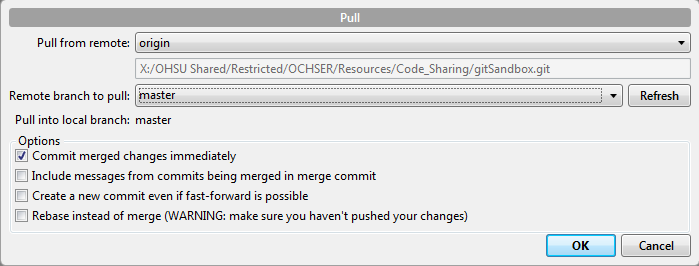
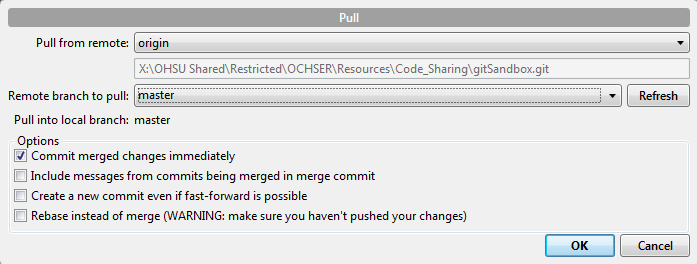
Change "/" to "\" to be consistent with Windows

diff --git a/README.md b/README.md
@@ -32,7 +32,7 @@ Now you are ready to clone a repository.
 1. Click the *Clone/New* icon on the toolbar (*Ctrl+N*).
 2. Click the *Clone Repository* tab.
 3. In the *Source Path/URL* text box, enter  
-    [`X:/OHSU Shared/Restricted/OCHSER/Resources/Code_Sharing/gitSandbox.git`](file:///X:/OHSU%20Shared/Restricted/OCHSER/Resources/Code_Sharing/gitSandbox.git/).
+    [`X:\OHSU Shared\Restricted\OCHSER\Resources\Code_Sharing\gitSandbox.git`](file:///X:/OHSU%20Shared/Restricted/OCHSER/Resources/Code_Sharing/gitSandbox.git/).
 4. Confirm that the *Repository Type* says `This is a Git repository`.
 5. Confirm that the *Destination Path* is `H:\gitSandbox`. This will create a folder named `gitSandbox` in the *Project folder* you assigned earlier.
     * Make sure the settings in the popup window match the following ![assets/popupClone.png](assets/popupClone.png)
@@ -257,9 +257,9 @@ In order to pull/push, you'll need to initialize a bare repository.
 
 1. Click the *Terminal* button on the SourceTree toolbar (Shift+Alt+T)
 2. In the terminal, type the following (substitute `<your-name>` with your name):  
-`git init --bare "X:/OHSU Shared/Restricted/OCHSER/Resources/Code_Sharing/gitOurFirstRepos/<your-name>FirstRepo.git"`  
+`git init --bare "X:\OHSU Shared\Restricted\OCHSER\Resources\Code_Sharing\gitOurFirstRepos\<your-name>FirstRepo.git"`  
     * Below is an example of what you should see ![assets/terminalInitBare.png](assets/terminalInitBare.png)
-3. Navigate to the [`X:/OHSU Shared/Restricted/OCHSER/Resources/Code_Sharing/gitOurFirstRepos`](file:///X:/OHSU%20Shared/Restricted/OCHSER/Resources/Code_Sharing/gitOurFirstRepos/) folder.
+3. Navigate to the [`X:\OHSU Shared\Restricted\OCHSER\Resources\Code_Sharing\gitOurFirstRepos`](file:///X:/OHSU%20Shared/Restricted/OCHSER/Resources/Code_Sharing/gitOurFirstRepos/) folder.
 4. Verify that `<your-name>FirstRepo.git` was created.
 
 Now you are ready to set your remote.
@@ -273,7 +273,7 @@ Now you are ready to set your remote.
 4. Check the *Default remote* checkbox
     * The *Remote name* line should now be populated with `origin`.
 5. In the *URL/Path* line, type in  
-`X:/OHSU Shared/Restricted/OCHSER/Resources/Code_Sharing/gitOurFirstRepos/<your-name>FirstRepo.git`
+`X:\OHSU Shared\Restricted\OCHSER\Resources\Code_Sharing\gitOurFirstRepos\<your-name>FirstRepo.git`
 6. Click *OK*.
 7. Click the second *OK* button.
 8. Push your commits to `origin/master` (task 10).
